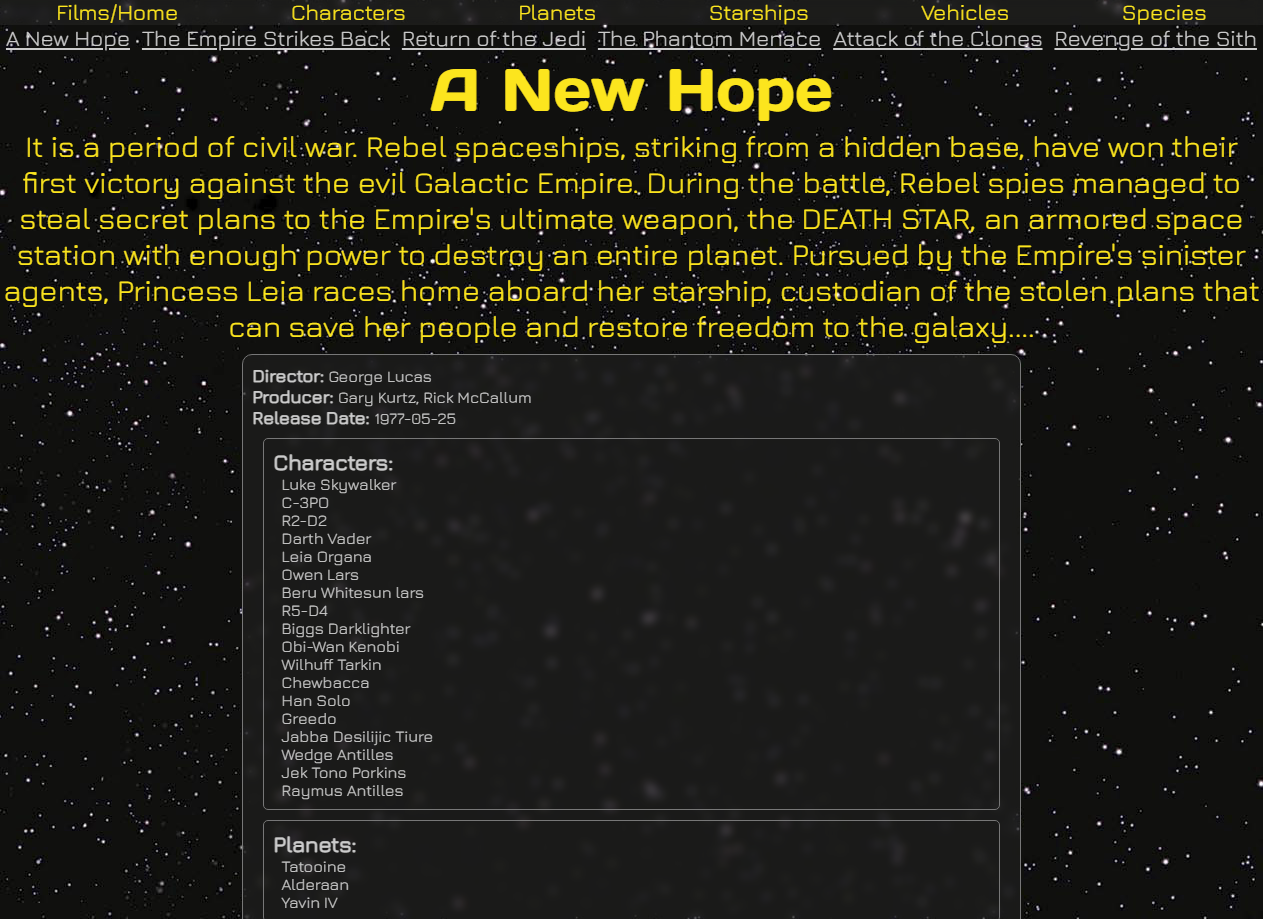
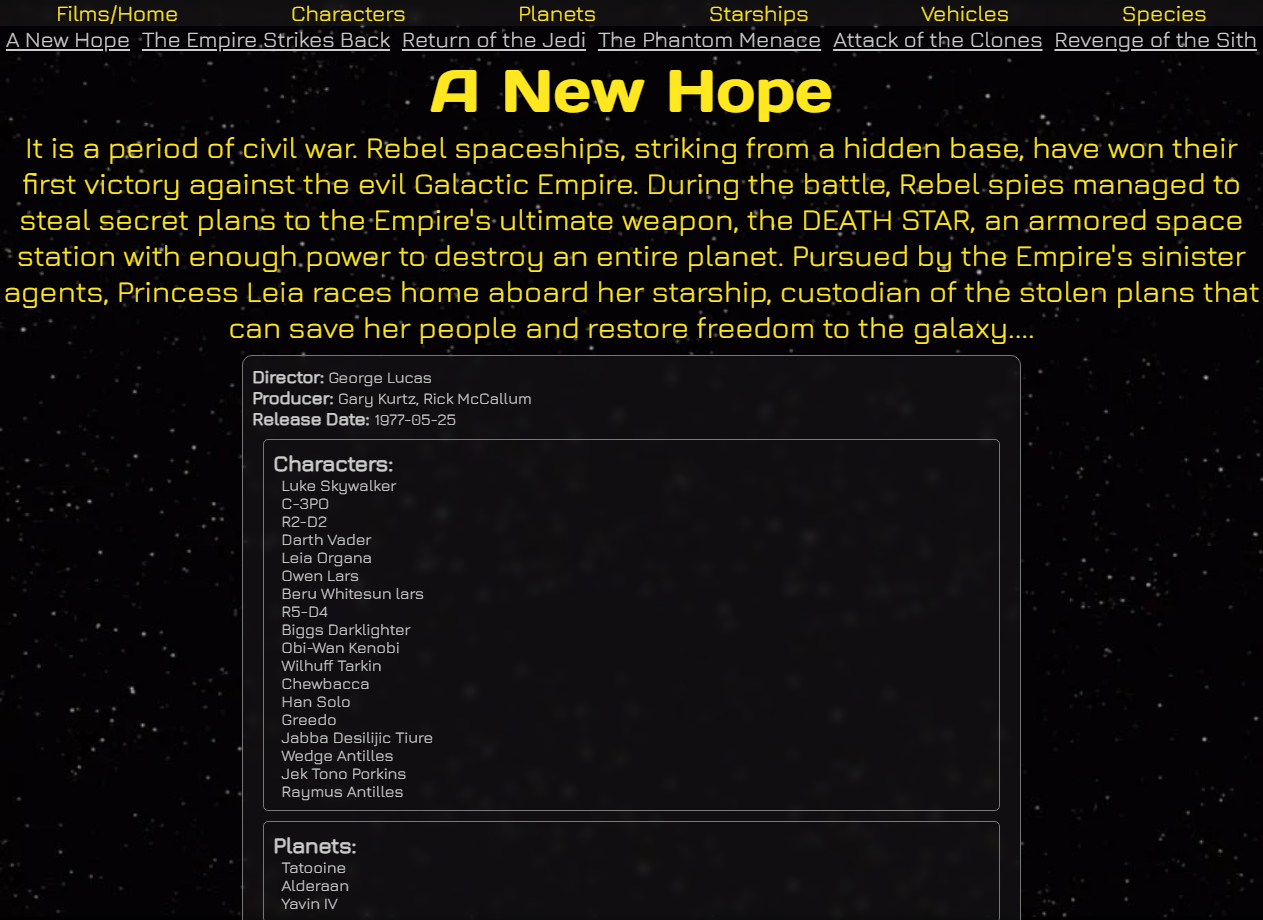
Change background image, update new screenshots

diff --git a/src/App.css b/src/App.css
@@ -1,6 +1,8 @@
 html, body, #root {
   background-color: #f1f1f1;
-  background-image: url(https://starwarsblog.starwars.com/wp-content/uploads/2020/04/star-wars-backgrounds-25.jpg);
+  background-image: url(https://cdn.wallpapersafari.com/68/45/MFl4r9.jpg);
+  background-repeat: no-repeat;
+  background-size: cover;
   background-attachment: fixed;
 }
 
